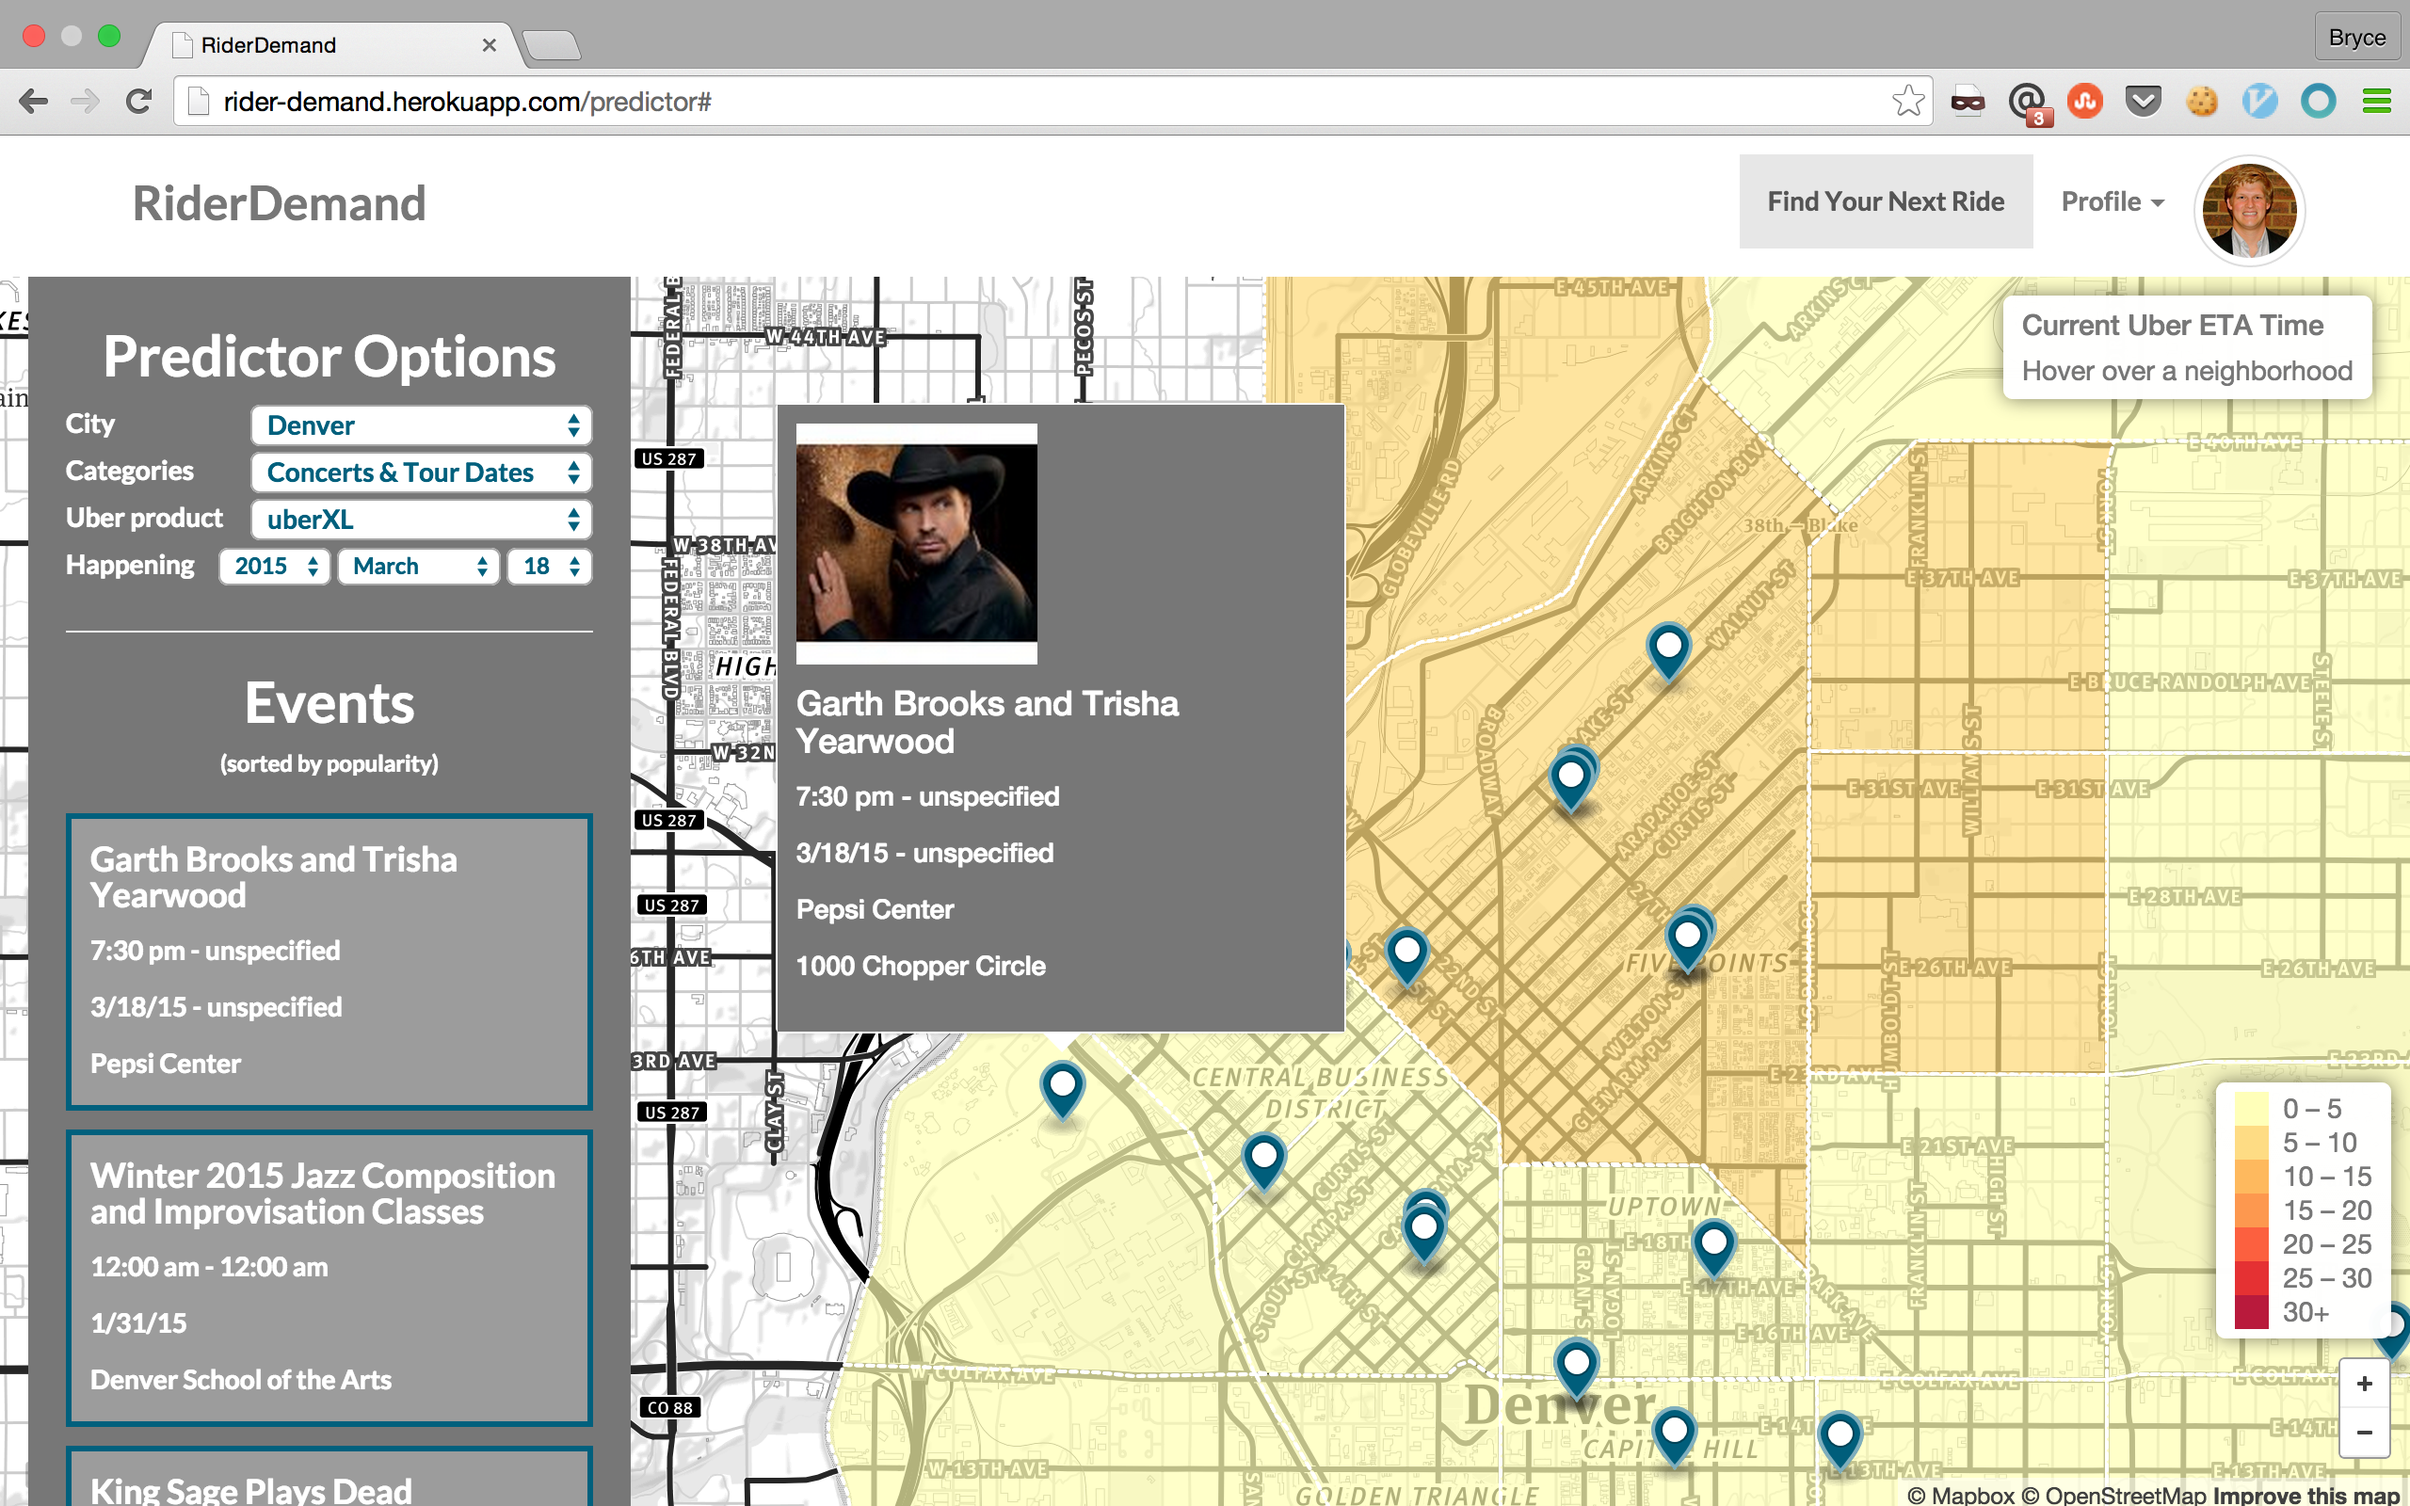
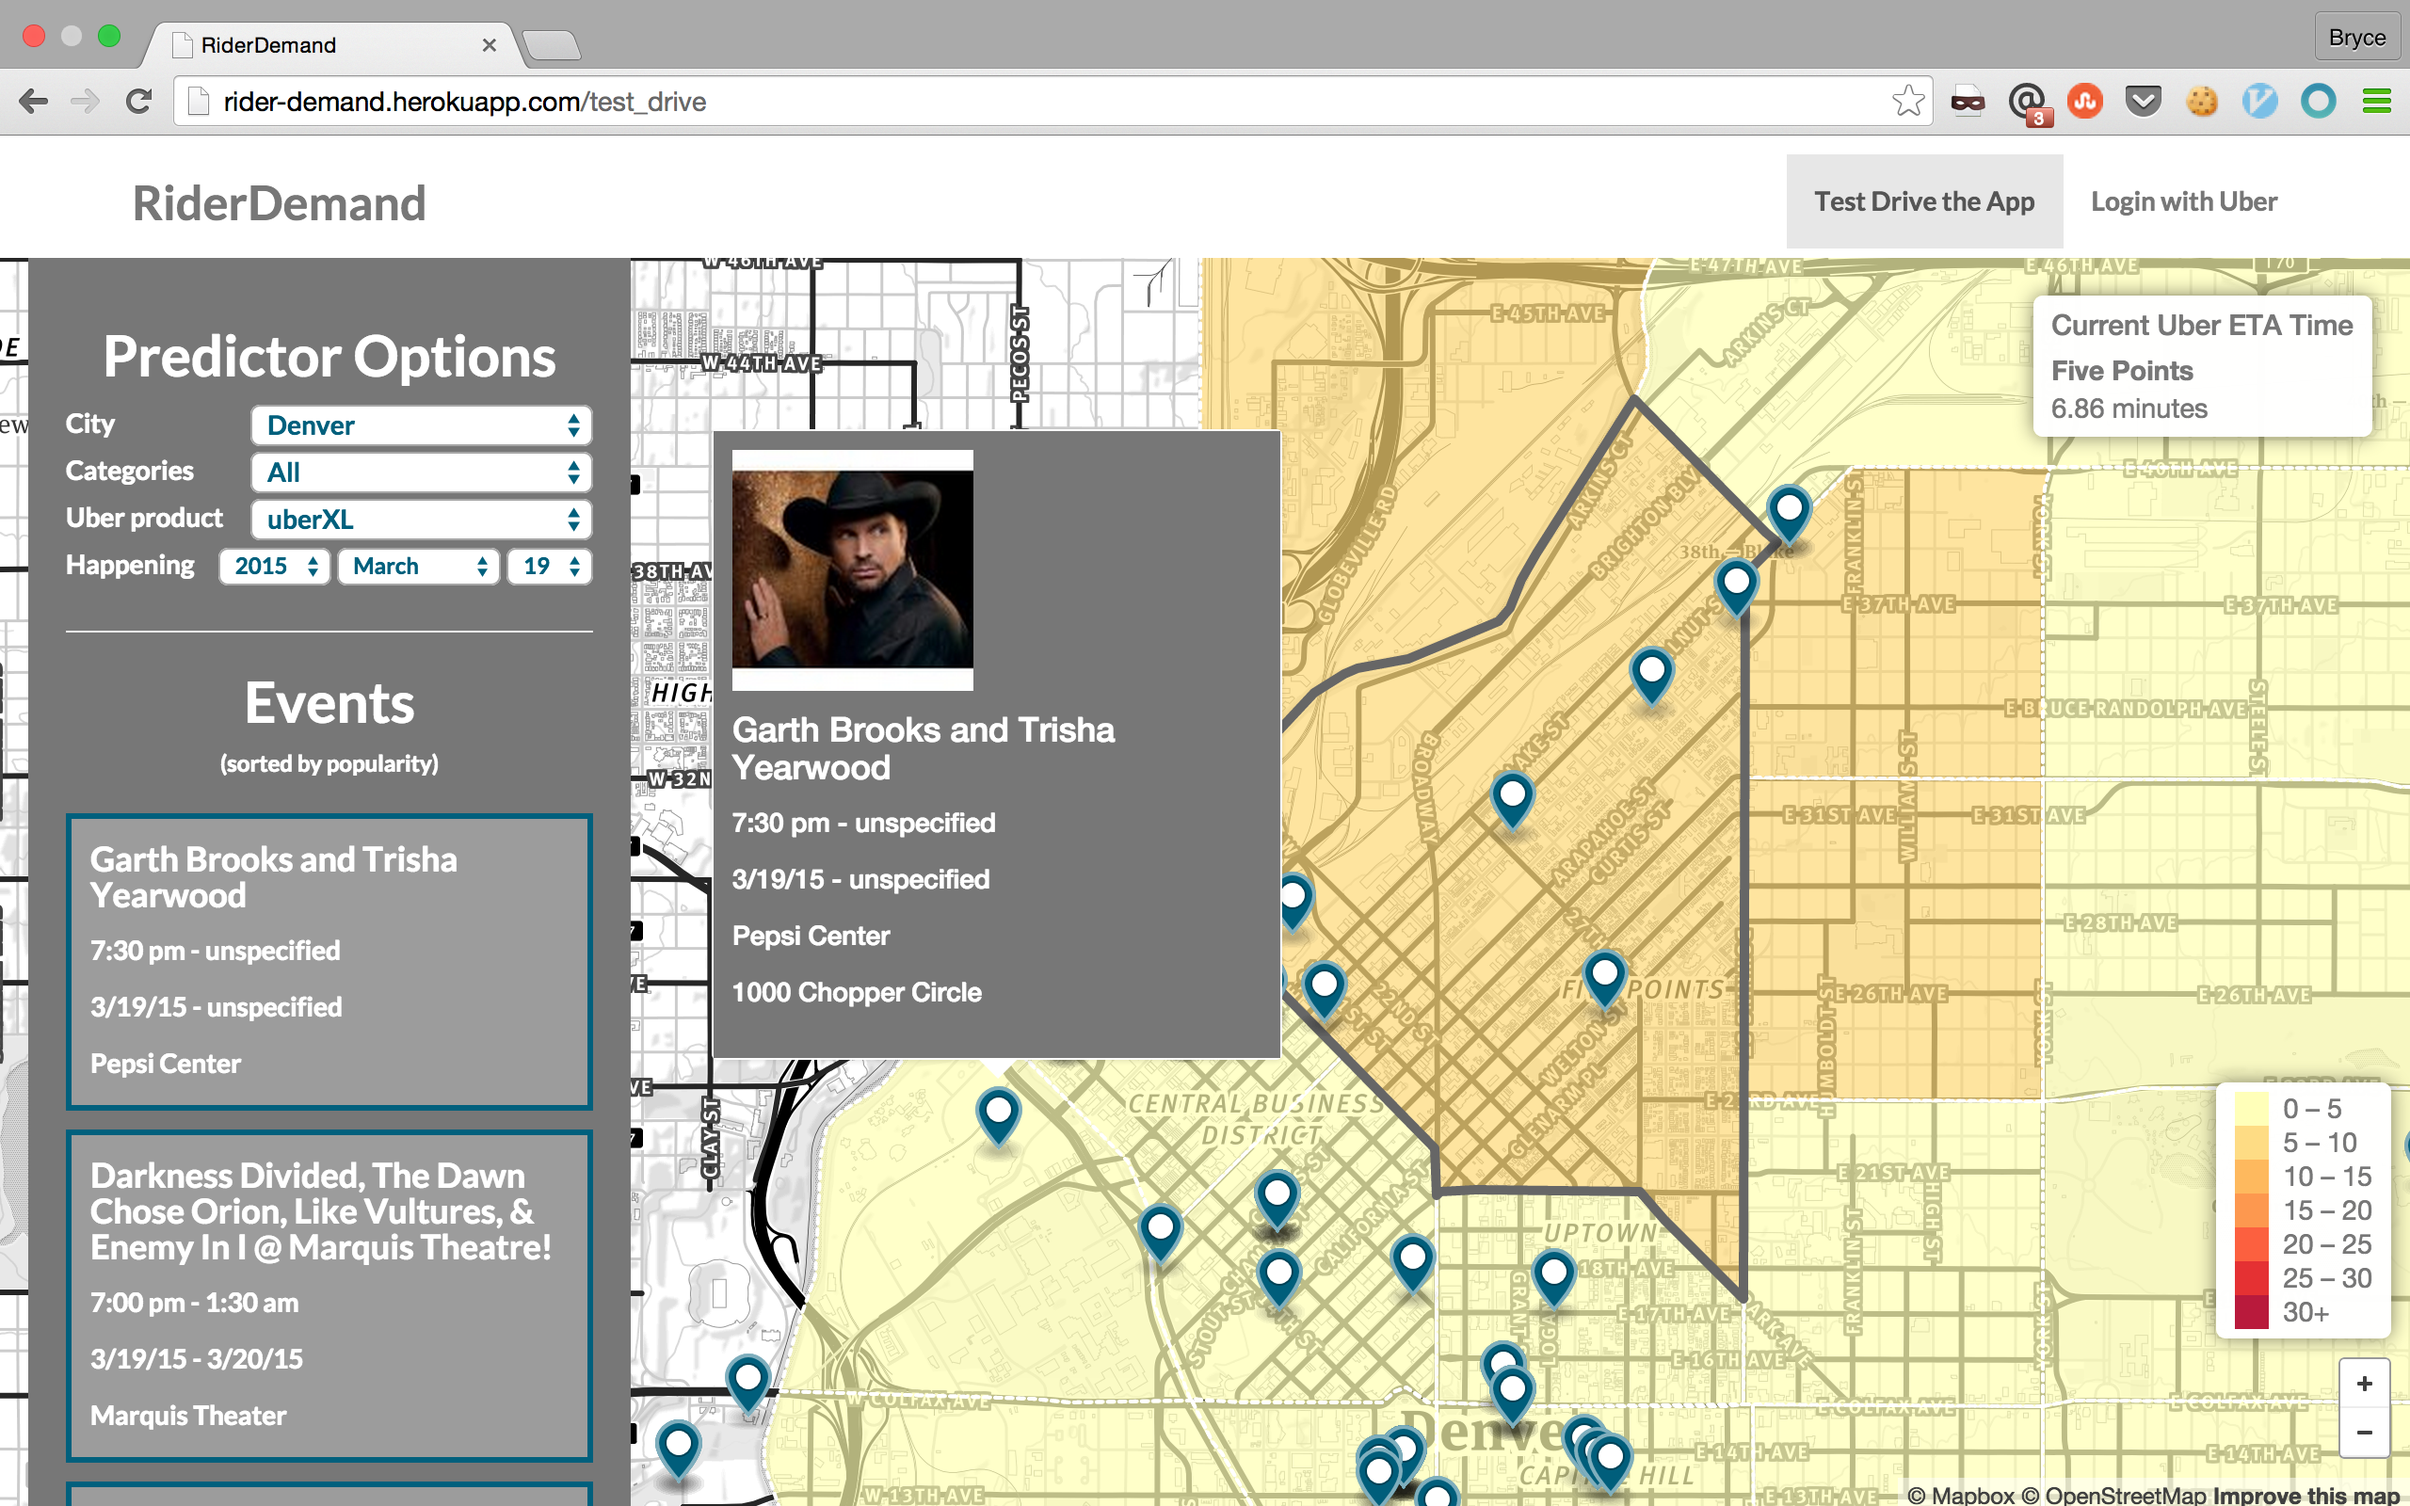
add info boxes to demo picture

Changed region(s): [[0.0, 0.0938, 1.0, 1.0], [0.125, 0.3125, 0.2188, 0.3438], [0.25, 0.0625, 0.3125, 0.0938]]

diff --git a/app/assets/stylesheets/home/index.scss b/app/assets/stylesheets/home/index.scss
@@ -25,3 +25,15 @@
   text-align: center;
   padding-bottom: 20px;
 }
+
+.description {
+  color: #777;
+  text-align: center;
+  background-color: white;
+  border-width: 2px;
+  border-style: solid;
+  border-color: #777;
+  margin-top: 20px;
+  padding-left: 10px;
+  padding-right: 10px;
+}
